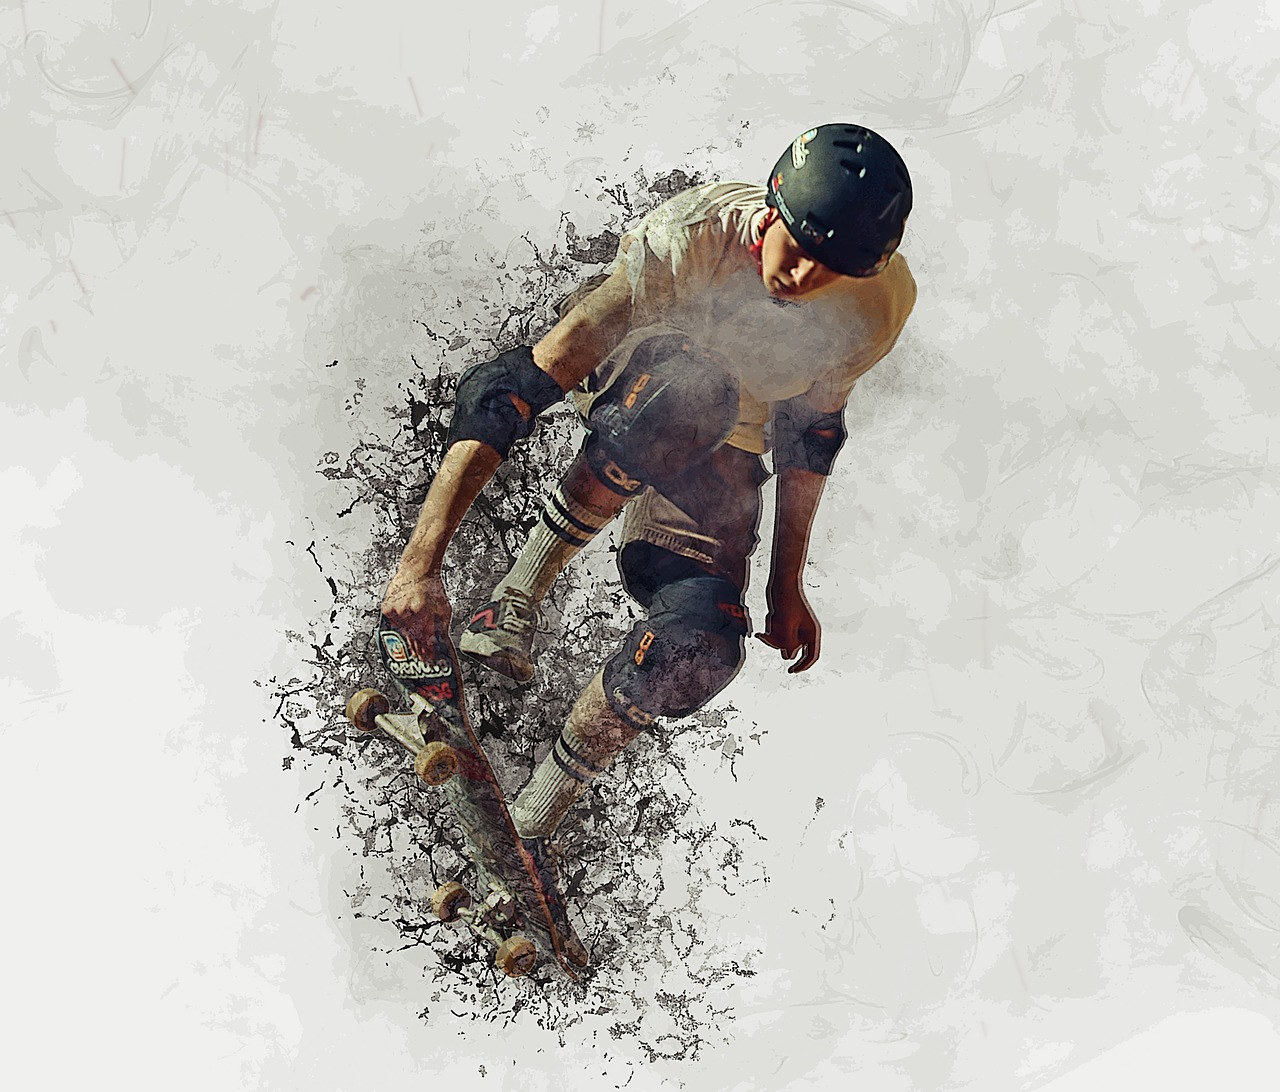
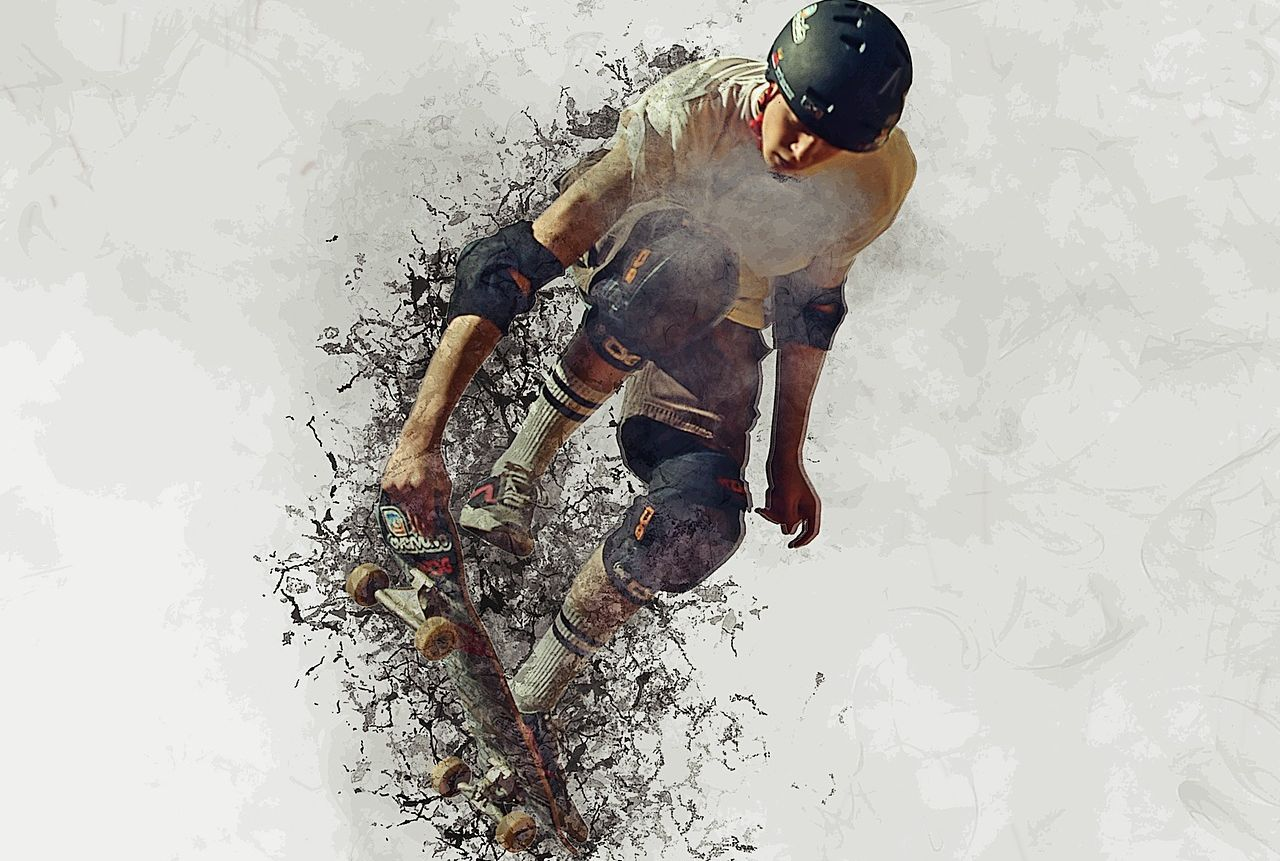
hero template

diff --git a/src/app/hero/hero.component.css b/src/app/hero/hero.component.css
@@ -1,0 +1,43 @@
+.hero{
+  height: 35em;
+  width: 100vw;
+  background-image: url('../../assets/Images/skateboard-art.jpg');
+  background-size: cover;
+  position: relative;
+  top: 3em;
+  background-position-y: -15em;
+  background-repeat: no-repeat;
+  display: flex;
+  justify-content: flex-end;
+  align-items: flex-end;
+}
+
+.hero-text{
+  width: 30em;
+  font-size: 1em;
+  color: #535353;
+  font-weight: bold;
+  display: flex;
+  flex-direction: column;
+  text-align: left;
+  position: relative;
+  bottom: 8em;
+}
+
+.hero-text h3{
+  font-size: 3em;
+  font-weight: bold;
+  width: 10em;
+}
+
+.hero-text button{
+  width: 10em;
+  font-size: 1em;
+  height: 3em;
+}
+
+.hero-text button:hover{
+  -webkit-box-shadow: 0px 10px 10px 0px rgba(0,0,0,0.75);
+-moz-box-shadow: 0px 10px 10px 0px rgba(0,0,0,0.75);
+box-shadow: 0px 10px 10px 0px rgba(0,0,0,0.75);
+}

diff --git a/src/app/header/navbar/navbar.component.html b/src/app/header/navbar/navbar.component.html
@@ -1,9 +1,9 @@
-<nav class="navbar navbar-expand-lg navbar-light bg-transparent">
+<nav class="navbar navbar-expand-sm navbar-light bg-transparent">
     <button class="navbar-toggler" type="button" data-toggle="collapse" data-target="#navbarSupportedContent" aria-controls="navbarSupportedContent" aria-expanded="false" aria-label="Toggle navigation">
       <span class="navbar-toggler-icon"></span>
     </button>
 
-    <div class="collapse navbar-collapse" id="navbarSupportedContent">
+    <div class="collapse navbar-collapse bg-white" id="navbarSupportedContent">
       <ul class="navbar-nav nav-list">
         <li class="nav-item active">
           <a class="nav-link" href="#">Inicio <span class="sr-only">(current)</span></a>

diff --git a/src/app/app.module.ts b/src/app/app.module.ts
@@ -5,12 +5,14 @@ import { AppRoutingModule } from './app-routing.module';
 import { AppComponent } from './app.component';
 import { HeaderComponent } from './header/header.component';
 import { NavbarComponent } from './header/navbar/navbar.component';
+import { HeroComponent } from './hero/hero.component';
 
 @NgModule({
   declarations: [
     AppComponent,
     HeaderComponent,
-    NavbarComponent
+    NavbarComponent,
+    HeroComponent
   ],
   imports: [
     BrowserModule,

diff --git a/src/app/hero/hero.component.html b/src/app/hero/hero.component.html
@@ -1,0 +1,10 @@
+<div class="hero">
+  <div class="hero-text">
+    <h3>Encuentra la Tabla Perfecta</h3>
+    <p>
+      Lorem ipsum dolor sit amet, consectetur adipisicing elit. Dignissimos,
+      eligendi assumenda optio unde at corporis voluptate eveniet.
+    </p>
+    <button class="btn btn-sm btn-primary">Ir a la Tienda  </button>
+  </div>
+</div>

diff --git a/src/styles.css b/src/styles.css
@@ -1,5 +1,5 @@
 /* You can add global styles to this file, and also import other style files */
-@import url('https://fonts.googleapis.com/css?family=Nunito&display=swap');
+@import url('https://fonts.googleapis.com/css?family=Nunito:400,700&display=swap');
 
 body{
   font-family: 'Nunito', sans-serif !important;

diff --git a/src/app/hero/hero.component.ts b/src/app/hero/hero.component.ts
@@ -1,0 +1,15 @@
+import { Component, OnInit } from '@angular/core';
+
+@Component({
+  selector: 'app-hero',
+  templateUrl: './hero.component.html',
+  styleUrls: ['./hero.component.css']
+})
+export class HeroComponent implements OnInit {
+
+  constructor() { }
+
+  ngOnInit() {
+  }
+
+}

diff --git a/src/app/header/navbar/navbar.component.css b/src/app/header/navbar/navbar.component.css
@@ -8,4 +8,9 @@ nav{
   justify-content: center;
   align-items: center;
   padding-bottom: 0.5em;
+  padding-top: 1em;
+}
+
+.nav-list li a{
+  margin-right: 12px !important;
 }

diff --git a/src/app/app.component.html b/src/app/app.component.html
@@ -1,2 +1,3 @@
 <app-header></app-header>
+<app-hero></app-hero>
 <router-outlet></router-outlet>
